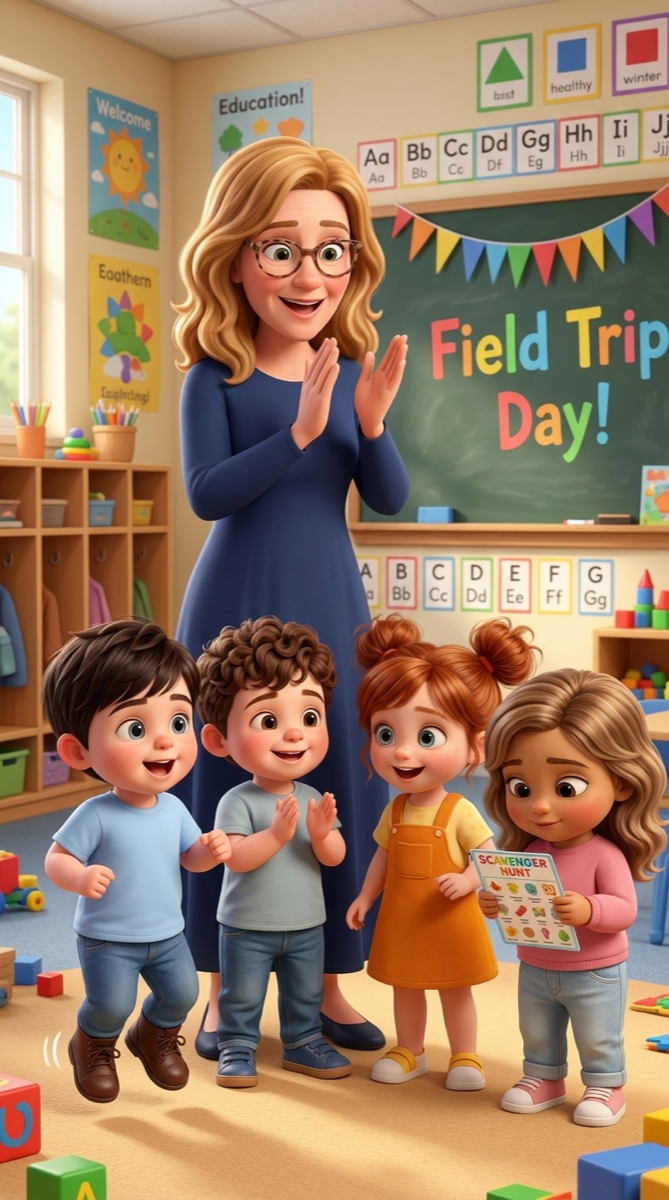
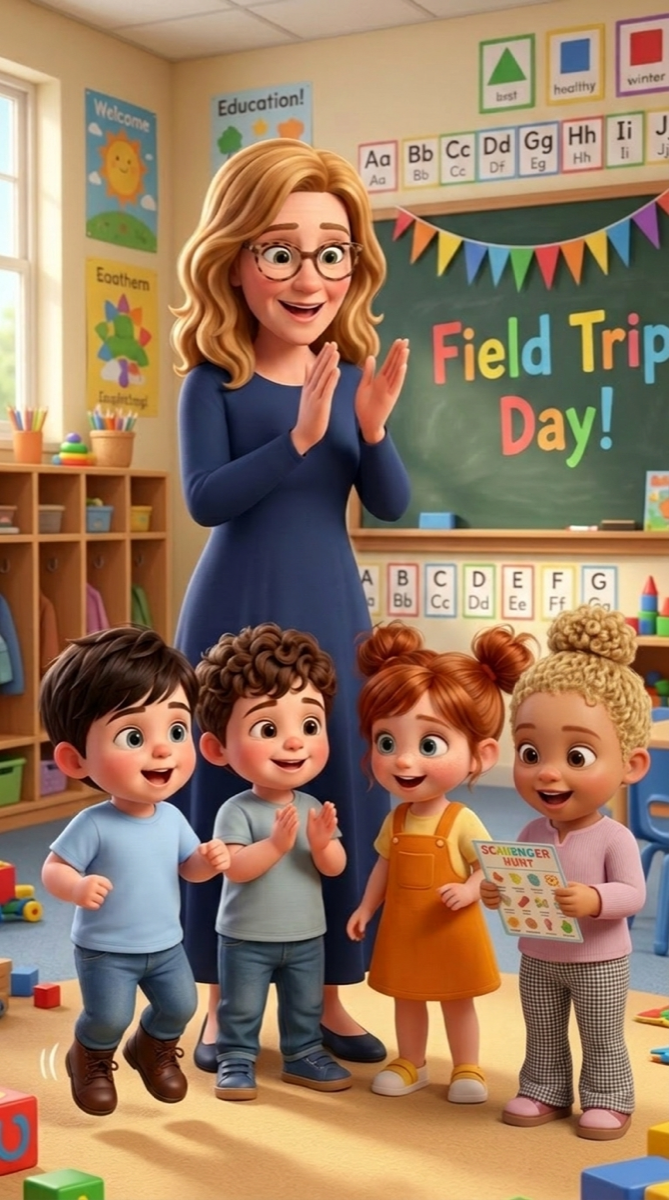
Fix zoo2: choice image paths, opening girl → Mia Alexandra, jungle recreated
- Choice images referenced wrong filenames (zoo2-safari vs zoo2-choice-safari)
- Opening: replaced generic girl with Mia Alexandra (blonde bun, caramel skin)
- Jungle: recreated as single scene (no split screen), better character likenesses

diff --git a/src/data/stories/zoo2.ts b/src/data/stories/zoo2.ts
@@ -161,8 +161,8 @@ export const zoo2: Story = {
       characters: ["Cru", "Mason", "Mia Alma", "Aila", "Shai", "Chaya", "Desi", "Mia Alexandra"],
       background: "zoo-fork-path",
       choices: [
-        { label: "Safari!", nextScene: "zoo2-safari", image: "choices/zoo2-safari.jpg" },
-        { label: "Jungle!", nextScene: "zoo2-jungle", image: "choices/zoo2-jungle.jpg" },
+        { label: "Safari!", nextScene: "zoo2-safari", image: "choices/zoo2-choice-safari.jpg" },
+        { label: "Jungle!", nextScene: "zoo2-jungle", image: "choices/zoo2-choice-jungle.jpg" },
       ],
     },
     "zoo2-safari": {
@@ -192,8 +192,8 @@ export const zoo2: Story = {
       characters: ["Cru", "Mason", "Mia Alma", "Aila", "Shai", "Chaya", "Desi", "Mia Alexandra"],
       background: "zoo-fork-path",
       choices: [
-        { label: "Ocean World!", nextScene: "zoo2-ocean", image: "choices/zoo2-ocean.jpg" },
-        { label: "Reptile House!", nextScene: "zoo2-reptiles", image: "choices/zoo2-reptiles.jpg" },
+        { label: "Ocean World!", nextScene: "zoo2-ocean", image: "choices/zoo2-choice-ocean.jpg" },
+        { label: "Reptile House!", nextScene: "zoo2-reptiles", image: "choices/zoo2-choice-reptiles.jpg" },
       ],
     },
     "zoo2-ocean": {
